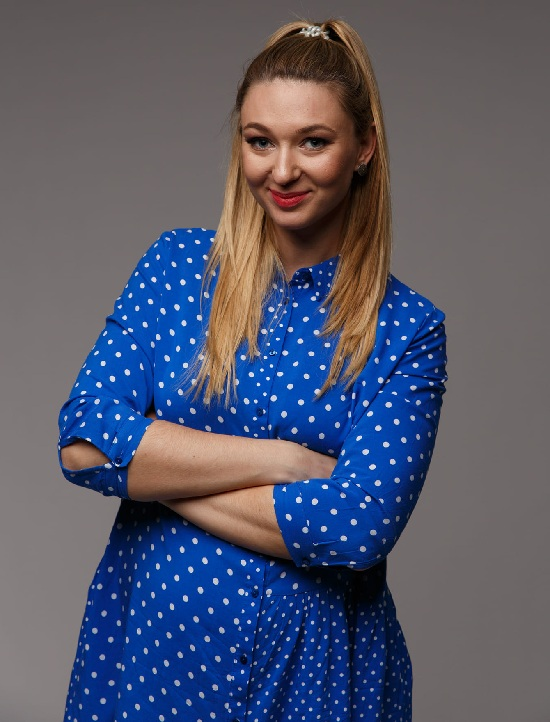
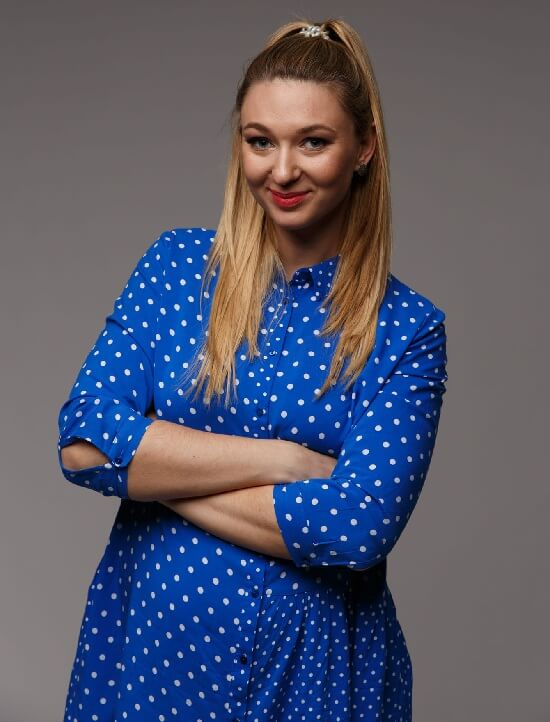
Optimize image size in Ilchenko card

diff --git a/src/templates/partials/_speakers.html b/src/templates/partials/_speakers.html
@@ -50,7 +50,7 @@
     },
     {
       img: 'Ilchenko.jpg',
-      img2: 'IlchenkoX2.jpg',
+      img2: 'Ilchenko2x.jpg',
       name: "Наталія Ільченко",
       link: 'https://www.facebook.com/n.ilchenko90',
       position: 'Director',
